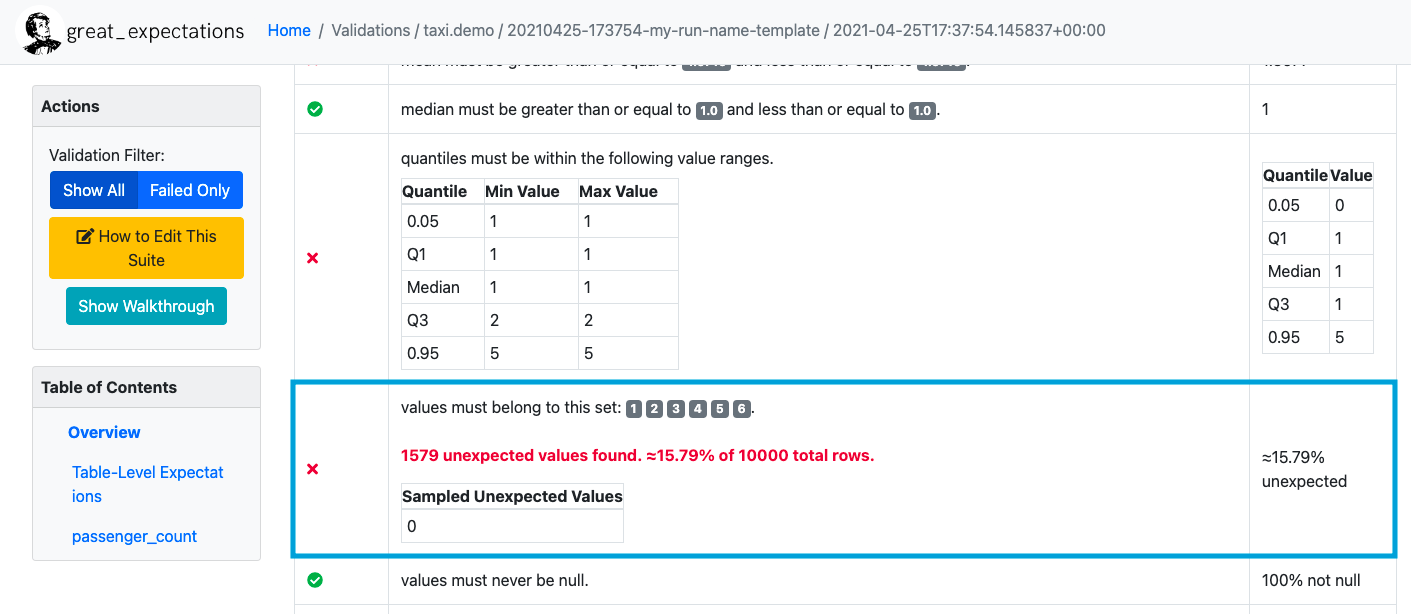
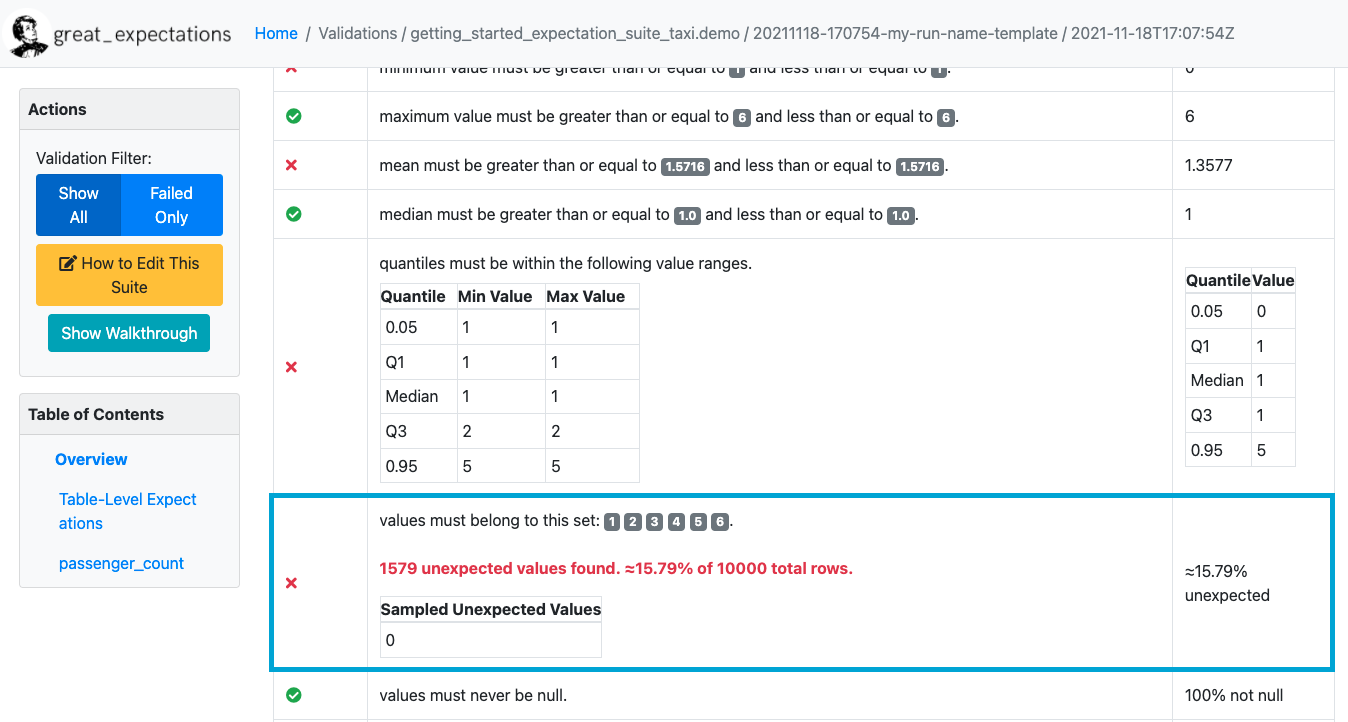
[MAINTENANCE] Standardize names for assets that are used in Getting Started Guide (#3706)

diff --git a/tests/integration/docusaurus/tutorials/getting-started/getting_started.py b/tests/integration/docusaurus/tutorials/getting-started/getting_started.py
@@ -14,7 +14,7 @@ assert context
 
 # First configure a new Datasource and add to DataContext
 datasource_yaml = f"""
-name: data__dir
+name: getting_started_datasource
 class_name: Datasource
 module_name: great_expectations.datasource
 execution_engine:
@@ -38,15 +38,17 @@ context.add_datasource(**yaml.load(datasource_yaml))
 
 # Get Validator by creating ExpectationSuite and passing in BatchRequest
 batch_request = BatchRequest(
-    datasource_name="data__dir",
+    datasource_name="getting_started_datasource",
     data_connector_name="default_inferred_data_connector_name",
     data_asset_name="yellow_tripdata_sample_2019-01.csv",
     limit=1000,
 )
-context.create_expectation_suite(expectation_suite_name="taxi.demo")
+context.create_expectation_suite(
+    expectation_suite_name="getting_started_expectation_suite_taxi.demo"
+)
 validator = context.get_validator(
     batch_request=batch_request,
-    expectation_suite_name="taxi.demo",
+    expectation_suite_name="getting_started_expectation_suite_taxi.demo",
 )
 # NOTE: The following assertion is only for testing and can be ignored by users.
 assert isinstance(validator, Validator)
@@ -88,18 +90,18 @@ validator.save_expectation_suite(discard_failed_expectations=False)
 
 # Create first checkpoint on yellow_tripdata_sample_2019-01.csv
 my_checkpoint_config = f"""
-name: my_checkpoint
+name: getting_started_checkpoint
 config_version: 1.0
 class_name: SimpleCheckpoint
 run_name_template: "%Y%m%d-%H%M%S-my-run-name-template"
 validations:
   - batch_request:
-      datasource_name: data__dir
+      datasource_name: getting_started_datasource
       data_connector_name: default_inferred_data_connector_name
       data_asset_name: yellow_tripdata_sample_2019-01.csv
       data_connector_query:
         index: -1
-    expectation_suite_name: taxi.demo
+    expectation_suite_name: getting_started_expectation_suite_taxi.demo
 """
 my_checkpoint_config = yaml.load(my_checkpoint_config)
 
@@ -114,23 +116,23 @@ assert checkpoint_result.run_results
 
 
 # Create second checkpoint on yellow_tripdata_sample_2019-02.csv
-my_new_checkpoint_config = f"""
-name: my_new_checkpoint
+yaml_config = f"""
+name: getting_started_checkpoint
 config_version: 1.0
 class_name: SimpleCheckpoint
 run_name_template: "%Y%m%d-%H%M%S-my-run-name-template"
 validations:
   - batch_request:
-      datasource_name: data__dir
+      datasource_name: getting_started_datasource
       data_connector_name: default_inferred_data_connector_name
       data_asset_name: yellow_tripdata_sample_2019-02.csv
       data_connector_query:
         index: -1
-    expectation_suite_name: taxi.demo
+    expectation_suite_name: getting_started_expectation_suite_taxi.demo
 """
 
 
-my_new_checkpoint_config = yaml.load(my_new_checkpoint_config)
+my_new_checkpoint_config = yaml.load(yaml_config)
 
 # NOTE: The following code (up to and including the assert) is only for testing and can be ignored by users.
 # In the current test, site_names are set to None because we do not want to update and build data_docs

diff --git a/docs/tutorials/getting_started/create_your_first_expectations.md b/docs/tutorials/getting_started/create_your_first_expectations.md
@@ -5,7 +5,7 @@ title: Create your first Expectations
 Expectations are the workhorse abstraction in Great Expectations. Each Expectation is a declarative, machine-verifiable assertion about the expected format, content, or behavior of your data. Great Expectations comes with dozens of built-in Expectations, and it’s possible to develop your own custom Expectations, too.
 
 ### Create an Expectation Suite using the CLI
-The CLI will help you create your first Expectation Suite. Suites are simply collections of Expectations. In order to create a new suite, we will use the built-in profiler to automatically create an Expectation Suite called `taxi.demo`. Type the following into your terminal:
+The CLI will help you create your first Expectation Suite. Suites are simply collections of Expectations. In order to create a new suite, we will use the built-in profiler to automatically create an Expectation Suite called `getting_started_expectation_suite_taxi.demo`. Type the following into your terminal:
 
 ```console
 great_expectations --v3-api suite new
@@ -20,32 +20,29 @@ Don’t execute the Jupyter Notebook cells just yet!
 :::
 
 ```console
-How would you like to create your Expectation Suite? 
-    1. Manually, without interacting with a sample batch of data (default) 
-    2. Interactively, with a sample batch of data 
-    3. Automatically, using a profiler 
-: 3 
- 
-A batch of data is required to edit the suite - let's help you to specify it. 
- 
- 
-Which data asset (accessible by data connector "default_inferred_data_connector_name")
-would you like to use? 
-    1. yellow_tripdata_sample_2019-01.csv 
-    2. yellow_tripdata_sample_2019-02.csv 
-: 1 
- 
-Name the new Expectation Suite [yellow_tripdata_sample_2019-01.csv.warning]: taxi.demo 
- 
-Great Expectations will create a notebook, containing code cells that select from
-available columns in your dataset and generate expectations about them to demonstrate
-some examples of assertions you can make about your data. 
- 
-When you run this notebook, Great Expectations will store these expectations in a new
-Expectation Suite "taxi.demo" here: 
- 
-  <path_to_project>/great_expectations/expectations/taxi/demo.json 
- 
+How would you like to create your Expectation Suite?
+    1. Manually, without interacting with a sample batch of data (default)
+    2. Interactively, with a sample batch of data
+    3. Automatically, using a profiler
+: 3
+
+A batch of data is required to edit the suite - let's help you to specify it.
+
+
+Which data asset (accessible by data connector "default_inferred_data_connector_name") would you like to use?
+    1. yellow_tripdata_sample_2019-01.csv
+    2. yellow_tripdata_sample_2019-02.csv
+: 1
+
+Name the new Expectation Suite [yellow_tripdata_sample_2019-01.csv.warning]: getting_started_expectation_suite_taxi.demo
+
+Great Expectations will create a notebook, containing code cells that select from available columns in your dataset and
+generate expectations about them to demonstrate some examples of assertions you can make about your data.
+
+When you run this notebook, Great Expectations will store these expectations in a new Expectation Suite "getting_started_expectation_suite_taxi.demo" here:
+
+  <path_to_project>/great_expectations/expectations/getting_started_expectation_suite_taxi/demo.json
+
 Would you like to proceed? [Y/n]:  <press Enter>
 ```
 
@@ -66,12 +63,12 @@ Since notebooks are often less permanent, creating Expectations in a notebook al
 
 **Let’s take a look through the notebook and see what’s happening in each cell**:
 
-![edit](../../guides/images/suite_edit_notebook.png)
+![edit](../../images/suite_edit_notebook.png)
 
 1. The first cell does several things: It imports all the relevant libraries, loads a Data Context, and creates a `Validator`, which combines a Batch Request to define your batch of data, and an Expectation Suite.
 2. The second cell allows you to specify which columns you want to **ignore** when creating Expectations. Remember how we want to add some tests on the `passenger_count` column to ensure that its values range between 1 and 6? **Let’s comment just this one line to include it**:
 
-```python file=../../../tests/integration/docusaurus/tutorials/getting-started/getting_started.py#L55-L60
+```python file=../../../tests/integration/docusaurus/tutorials/getting-started/getting_started.py#L57-L61
 ```
 
 3. The next cell is where you configure a `UserConfigurableProfiler` and instantiate it, which will then profile the data and create the relevant Expectations to add to your `taxi.demo` suite.

diff --git a/docs/tutorials/getting_started/validate_your_data.md b/docs/tutorials/getting_started/validate_your_data.md
@@ -11,7 +11,7 @@ Let’s set up our first Checkpoint! **Go back to your terminal** and shut down 
 
 
 ```console
-great_expectations --v3-api checkpoint new my_new_checkpoint
+great_expectations --v3-api checkpoint new getting_started_checkpoint
 ```
 
 This will open a **Jupyter Notebook** that will allow you to complete the configuration of your Checkpoint.
@@ -19,16 +19,16 @@ This will open a **Jupyter Notebook** that will allow you to complete the config
 The Jupyter Notebook contains some boilerplate code that allows you to configure a new Checkpoint. The second code cell is pre-populated with an arbitrarily chosen batch request and Expectation Suite to get you started. Edit the `data_asset_name` to reference the data we want to validate (the February data), as follows:
 
 
-```python file=../../../tests/integration/docusaurus/tutorials/getting-started/getting_started.py#L117-L130
+```python file=../../../tests/integration/docusaurus/tutorials/getting-started/getting_started.py#L119-L132
 ```
 
 You can then execute all cells in the notebook in order to store the Checkpoint to your Data Context.
 
 **What just happened?**
 
-- `my_new_checkpoint` is the name of your new Checkpoint.
+- `getting_started_checkpoint` is the name of your new Checkpoint.
 
-- The Checkpoint uses `taxi.demo` as its primary Expectation Suite.
+- The Checkpoint uses `getting_started_expectation_suite_taxi.demo` as its primary Expectation Suite.
 
 - You configured the Checkpoint to validate the `yellow_tripdata_sample_2019-02.csv` (i.e. our February data) file.
 

diff --git a/docs/tutorials/getting_started/check_out_data_docs.md b/docs/tutorials/getting_started/check_out_data_docs.md
@@ -54,14 +54,14 @@ These Expectations are not intended to be very smart. Instead, the goal is to qu
 
 ### Expectations under the hood
 
-By default, Expectation Suites are stored in a JSON file in the expectations/ subdirectory of your great_expectations/ folder. You can also configure Great Expectations to store Expectations to other locations, such as S3, Postgres, etc. We’ll come back to these options in the last (optional) step of the tutorial.
+By default, Expectation Suites are stored in a JSON file in the `expectations/` subdirectory of your `great_expectations/` folder. You can also configure Great Expectations to store Expectations to other locations, such as S3, Postgres, etc. We’ll come back to these options in the last (optional) step of the tutorial.
 
 For example, a snippet of the JSON file for the Expectation Suite we just generated will look like this:
 
 ```json
 {
   "data_asset_type": null,
-  "expectation_suite_name": "taxi.demo",
+  "expectation_suite_name": "getting_started_expectation_suite_taxi.demo",
   "expectations": [
 
     {

diff --git a/docs/tutorials/getting_started/initialize_a_data_context.md b/docs/tutorials/getting_started/initialize_a_data_context.md
@@ -35,7 +35,7 @@ great_expectations --version
 This should return something like:
 
 ```console
-great_expectations, version 0.13.29
+great_expectations, version 0.13.43
 ```
 
 For detailed installation instructions, see [How to install Great Expectations locally](/docs/guides/setup/installation/local).
@@ -71,9 +71,9 @@ Using v3 (Batch Request) API
                                 |_|
              ~ Always know what to expect from your data ~
 
-Let's configure a new Data Context.
+Let's create a new Data Context to hold your project configuration.
 
-First, Great Expectations will create a new directory:
+Great Expectations will create a new directory with the following structure:
 
     great_expectations
     |-- great_expectations.yml
@@ -83,7 +83,7 @@ First, Great Expectations will create a new directory:
     |-- .gitignore
     |-- uncommitted
         |-- config_variables.yml
-        |-- documentation
+        |-- data_docs
         |-- validations
 
 OK to proceed? [Y/n]: <press Enter>

diff --git a/docs/tutorials/getting_started/connect_to_data.md b/docs/tutorials/getting_started/connect_to_data.md
@@ -36,7 +36,7 @@ The Jupyter Notebook contains some boilerplate code to configure your new Dataso
 Edit the second code cell as follows:
 
 ````console
-datasource_name = "data__dir"
+datasource_name = "getting_started_datasource"
 ````
 
 Then **execute all cells in the notebook** in order to save the new Datasource. If successful, the last cell will print a list of all Datasources, including the one you just created.
@@ -47,7 +47,7 @@ Then **execute all cells in the notebook** in order to save the new Datasource. 
 
 When you completed those last few steps, you told Great Expectations that:
 
-+ You want to create a new Datasource called `data__dir`.
++ You want to create a new Datasource called `getting_started_datasource`.
 + You want to use Pandas to read the data from CSV.
 
 Based on that information, the CLI added the following entry into your ```great_expectations.yml``` file, under the datasources header:
